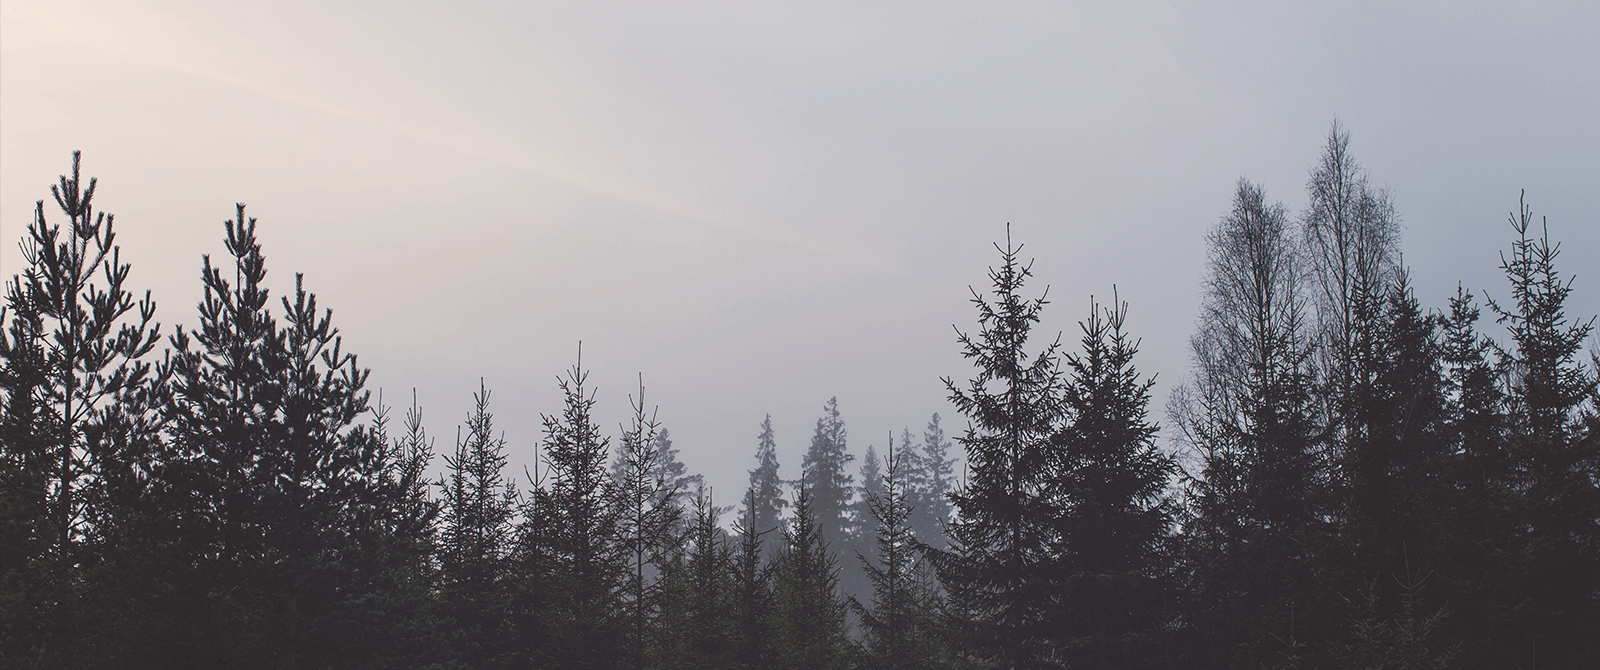
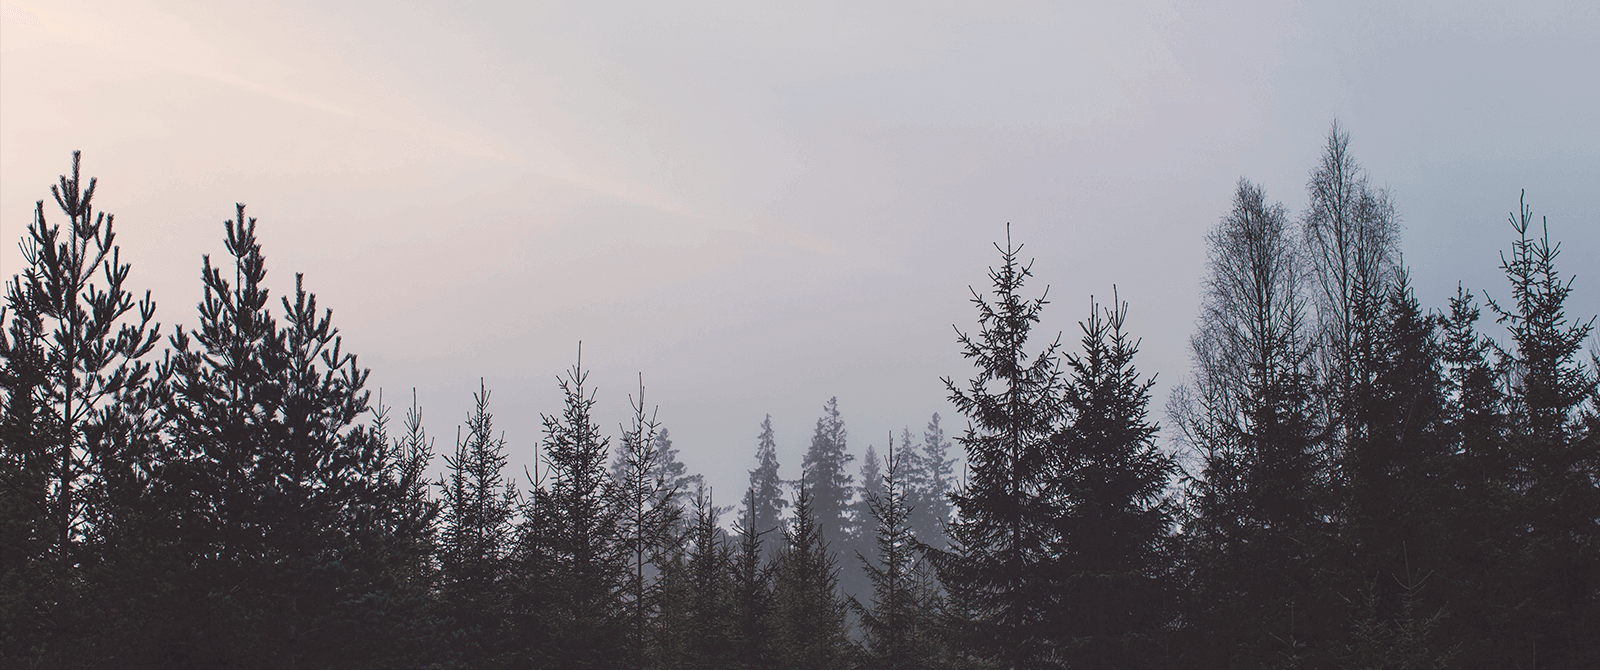
adaptive images (backgrounds). adaptive for 1750-1900px.

diff --git a/index.html b/index.html
@@ -1,1 +1,1 @@
[2 lines of base64/hex data omitted]

diff --git a/main.910e1c8e3a20116ae655.css b/main.910e1c8e3a20116ae655.css
@@ -1,0 +1,1 @@
+/*! normalize.css v8.0.1 | MIT License | github.com/necolas/normalize.css */html{line-height:1.15;-webkit-text-size-adjust:100%}body{margin:0}main{display:block}h1{font-size:2em;margin:.67em 0}hr{-webkit-box-sizing:content-box;box-sizing:content-box;height:0;overflow:visible}pre{font-family:monospace,monospace;font-size:1em}a{background-color:rgba(0,0,0,0)}abbr[title]{border-bottom:none;text-decoration:underline;-webkit-text-decoration:underline dotted;text-decoration:underline dotted}b,strong{font-weight:bolder}code,kbd,samp{font-family:monospace,monospace;font-size:1em}small{font-size:80%}sub,sup{font-size:75%;line-height:0;position:relative;vertical-align:baseline}sub{bottom:-.25em}sup{top:-.5em}img{border-style:none}button,input,optgroup,select,textarea{font-family:inherit;font-size:100%;line-height:1.15;margin:0}button,input{overflow:visible}button,select{text-transform:none}[type=button],[type=reset],[type=submit],button{-webkit-appearance:button}[type=button]::-moz-focus-inner,[type=reset]::-moz-focus-inner,[type=submit]::-moz-focus-inner,button::-moz-focus-inner{border-style:none;padding:0}[type=button]:-moz-focusring,[type=reset]:-moz-focusring,[type=submit]:-moz-focusring,button:-moz-focusring{outline:1px dotted ButtonText}fieldset{padding:.35em .75em .625em}legend{-webkit-box-sizing:border-box;box-sizing:border-box;color:inherit;display:table;max-width:100%;padding:0;white-space:normal}progress{vertical-align:baseline}textarea{overflow:auto}[type=checkbox],[type=radio]{-webkit-box-sizing:border-box;box-sizing:border-box;padding:0}[type=number]::-webkit-inner-spin-button,[type=number]::-webkit-outer-spin-button{height:auto}[type=search]{-webkit-appearance:textfield;outline-offset:-2px}[type=search]::-webkit-search-decoration{-webkit-appearance:none}::-webkit-file-upload-button{-webkit-appearance:button;font:inherit}details{display:block}summary{display:list-item}[hidden],template{display:none}html{font-size:14px;font-family:Roboto,sans-serif;font-weight:400}*{-webkit-box-sizing:border-box;box-sizing:border-box}a{text-decoration:none}h1,h2,h3,p{margin:0}textarea{padding:0}input,textarea{outline:none}button,input,textarea{border:none;background:rgba(0,0,0,0)}button{text-decoration:none}ul{list-style-type:none;padding:0;margin:0}body{overflow-x:hidden}html{scroll-behavior:smooth}._hidden-overflow{overflow:hidden}.container{margin:0 auto;max-width:980px;padding:70px 20px}@media (min-width:1750px){.container_will-expand{max-width:1240px}}.logo{display:-webkit-box;display:-ms-flexbox;display:flex;-webkit-box-align:center;-ms-flex-align:center;align-items:center;z-index:1}.logo img{margin-right:12px}.logo span{font-family:Roboto,sans-serif;font-weight:100;font-size:30px;color:#22bac6;text-align:center}.bg-overlay{z-index:0;position:absolute;width:100%;height:100%;top:0;left:0;background-image:-webkit-gradient(linear,left bottom,left top,from(#09052f),to(#311d5e));background-image:-o-linear-gradient(bottom,#09052f 0,#311d5e 100%);background-image:linear-gradient(0deg,#09052f,#311d5e);opacity:.851}.button{display:-webkit-box;display:-ms-flexbox;display:flex;-webkit-box-pack:center;-ms-flex-pack:center;justify-content:center;-webkit-box-align:center;-ms-flex-align:center;align-items:center;width:120px;height:40px;font-family:Hammersmith One,sans-serif;font-size:16px;color:#00e0d0;border:1px solid #00e0d0;border-radius:2px;position:relative;-webkit-transition:.2s;-o-transition:.2s;transition:.2s;overflow:hidden;z-index:1;text-transform:uppercase}.button_big{width:140px}.button:after{content:"";display:block;position:absolute;width:200%;height:130%;background-color:#00e0d0;-webkit-transition:.25s;-o-transition:.25s;transition:.25s;z-index:-1;-webkit-transform:skew(110deg);-ms-transform:skew(110deg);transform:skew(110deg);left:-250%;top:-5px;opacity:0;visibility:hidden}.button:hover{color:#09052f}.button_light:hover{color:rgba(17,10,85,.85)}.button:hover:after{visibility:visible;left:-50%;opacity:1}.button:active{border:1px solid #00a094}.button:active:after{background-color:#00a094}.title{font-family:Playfair Display,serif;font-weight:600;font-size:22px;color:#413d4b;line-height:1.2}@media (min-width:1750px){.title{font-size:24px}}.description-text{font-family:Roboto,sans-serif;font-weight:300;font-size:14px;color:rgba(65,61,75,.749);line-height:1.571}@media (min-width:1750px){.description-text{font-size:16px}}.section-head__title{text-align:center;margin-bottom:14px;text-transform:uppercase;position:relative;z-index:1}.section-head__subtitle{font-family:Playfair Display,serif;font-weight:400;text-align:center;font-size:14px;color:rgba(47,45,53,.749);line-height:1.4;padding-bottom:18px;position:relative}@media (min-width:1750px){.section-head__subtitle{font-size:16px}}.section-head__subtitle:after{content:"";display:block;width:50px;height:2px;background-color:#c6c4c9;position:absolute;bottom:0;left:50%;-webkit-transform:translateX(-50%);-ms-transform:translateX(-50%);transform:translateX(-50%)}.section-head_white .section-head__subtitle,.section-head_white .section-head__title{color:#fff}.section-head_white .section-head__subtitle:after{background-color:#fff;opacity:.2}.modal{position:fixed;z-index:2;top:0;left:0;width:100%;height:100%;background-color:rgba(0,0,0,.6);-webkit-transition:.3s;-o-transition:.3s;transition:.3s;opacity:0}.modal_active{opacity:1}.modal__container,.modal_active .modal__content{width:100%;height:100%}.modal__container{display:-webkit-box;display:-ms-flexbox;display:flex;-webkit-box-pack:center;-ms-flex-pack:center;justify-content:center;-webkit-box-align:center;-ms-flex-align:center;align-items:center}.modal__slider-container{height:80%;width:85%}@media (max-width:992px){.modal__slider-container{width:95%;height:100%}}.modal__content,.modal__slide{display:-webkit-box;display:-ms-flexbox;display:flex;-webkit-box-pack:center;-ms-flex-pack:center;justify-content:center;-webkit-box-align:center;-ms-flex-align:center;align-items:center}.modal__content{width:0;height:0;-webkit-transition:.4s;-o-transition:.4s;transition:.4s}.modal__image{max-width:100%;height:100%;-o-object-fit:contain;object-fit:contain}.modal__button-next,.modal__button-prev{position:fixed;top:50%;z-index:3}@media (max-width:992px){.modal__button-next,.modal__button-prev{display:none}}.modal__button-prev{left:30px}.modal__button-next{right:30px}.modal__pagination{display:none;color:hsla(0,0%,100%,.8);bottom:2%}@media (max-width:992px){.modal__pagination{display:block}}.modal__close{position:fixed;top:0;right:0;width:60px;height:60px;opacity:.3;cursor:pointer;-webkit-transition:opacity .2s;-o-transition:opacity .2s;transition:opacity .2s;z-index:3}.modal__close:hover{opacity:1}.modal__close:after,.modal__close:before{position:absolute;left:50%;top:23%;content:" ";height:34px;width:3px;background-color:#fff}.modal__close:before{-webkit-transform:rotate(45deg);-ms-transform:rotate(45deg);transform:rotate(45deg)}.modal__close:after{-webkit-transform:rotate(-45deg);-ms-transform:rotate(-45deg);transform:rotate(-45deg)}._hide{visibility:hidden}@-webkit-keyframes scaleIncrease{0%{-webkit-transform:scale(.8);transform:scale(.8)}to{-webkit-transform:scale(1);transform:scale(1)}}@keyframes scaleIncrease{0%{-webkit-transform:scale(.8);transform:scale(.8)}to{-webkit-transform:scale(1);transform:scale(1)}}@-webkit-keyframes scaleDecrease{0%{-webkit-transform:scale(1.2);transform:scale(1.2)}to{-webkit-transform:scale(1);transform:scale(1)}}@keyframes scaleDecrease{0%{-webkit-transform:scale(1.2);transform:scale(1.2)}to{-webkit-transform:scale(1);transform:scale(1)}}@-webkit-keyframes fadeIn{0%{opacity:0}to{opacity:1}}@keyframes fadeIn{0%{opacity:0}to{opacity:1}}@-webkit-keyframes leftToRight{0%{-webkit-transform:translateX(-100px);transform:translateX(-100px)}to{-webkit-transform:translateX(0);transform:translateX(0)}}@keyframes leftToRight{0%{-webkit-transform:translateX(-100px);transform:translateX(-100px)}to{-webkit-transform:translateX(0);transform:translateX(0)}}@-webkit-keyframes rightToLeft{0%{-webkit-transform:translateX(100px);transform:translateX(100px)}to{-webkit-transform:translateX(0);transform:translateX(0)}}@keyframes rightToLeft{0%{-webkit-transform:translateX(100px);transform:translateX(100px)}to{-webkit-transform:translateX(0);transform:translateX(0)}}@-webkit-keyframes topToBottom{0%{-webkit-transform:translateY(-50px);transform:translateY(-50px)}to{-webkit-transform:translateY(0);transform:translateY(0)}}@keyframes topToBottom{0%{-webkit-transform:translateY(-50px);transform:translateY(-50px)}to{-webkit-transform:translateY(0);transform:translateY(0)}}@-webkit-keyframes bottomToTop{0%{-webkit-transform:translateY(50px);transform:translateY(50px)}to{-webkit-transform:translateY(0);transform:translateY(0)}}@keyframes bottomToTop{0%{-webkit-transform:translateY(50px);transform:translateY(50px)}to{-webkit-transform:translateY(0);transform:translateY(0)}}.header{position:relative;background-position:50%;background-size:cover;background-image:url(images/bg/header-bg.png)}@media (max-width:992px){.header{background-image:url(images/bg/header-bg-992.png)}}@media (max-width:768px){.header{background-image:url(images/bg/header-bg-768.jpg)}}@media (max-width:500px){.header{background-image:url(images/bg/header-bg-500.jpg)}}.header__container{padding-top:15px;padding-bottom:0}@media (max-width:1366px){.header__container{max-width:1176px}}.header__top{-webkit-box-pack:justify;-ms-flex-pack:justify;justify-content:space-between}.header__content,.header__top{display:-webkit-box;display:-ms-flexbox;display:flex;-webkit-box-align:center;-ms-flex-align:center;align-items:center}.header__content{padding:163px 0 70px;-webkit-box-pack:center;-ms-flex-pack:center;justify-content:center}@media (max-width:1366px){.header__content{padding-top:122.25px}}@media (max-width:768px){.header__content{padding-top:73.35px;padding-bottom:45px}}.header__slider{max-width:780px;width:100%;z-index:0}.menu{display:-webkit-box;display:-ms-flexbox;display:flex}@media (max-width:768px){.menu{position:fixed;top:-100%;left:0;width:100%;height:100%;background-color:#362b59;display:-webkit-box;display:-ms-flexbox;display:flex;visibility:hidden;-webkit-transition:.2s;-o-transition:.2s;transition:.2s;-webkit-box-orient:vertical;-webkit-box-direction:normal;-ms-flex-flow:column;flex-flow:column;-webkit-box-align:center;-ms-flex-align:center;align-items:center;-webkit-box-pack:center;-ms-flex-pack:center;justify-content:center;z-index:1;overflow:auto}.menu_active{visibility:visible;top:0}}.menu__link{font-family:Roboto,sans-serif;font-weight:900;font-size:13px;margin-right:25px;position:relative}@media (min-width:1750px){.menu__link{font-size:15px}}.menu__link:after{content:"";display:block;position:absolute;height:2px;background-color:#00e0d0;width:0;bottom:-3px;left:50%;-webkit-transition:.2s ease-in-out;-o-transition:.2s ease-in-out;transition:.2s ease-in-out}.menu__link:hover:after{width:100%;left:0}@media (max-width:768px){.menu__link{margin:0 0 25px;font-size:30px}.menu__link:last-child{margin:0}.menu__link:after{-webkit-transition:none;-o-transition:none;transition:none}}@media (max-height:450px){.menu__link{font-size:20px}}@media (max-height:351px){.menu__link{margin-bottom:15px}}.menu__link:last-child{margin-right:0}.menu__link a{color:#fff}.menu__link_active a{color:#00e0d0}.menu__link_active:after{display:none}.burger{position:relative;cursor:pointer}@media (max-width:768px){.burger{width:40px;height:25px;display:block;position:relative;z-index:2}.burger:after,.burger:before{content:"";display:block;width:100%;background-color:#00e0d0;height:3px;position:absolute;left:0;-webkit-transition:.3s;-o-transition:.3s;transition:.3s}.burger:before{top:0}.burger:after{top:22px}.burger span{content:"";display:block;width:100%;background-color:#00e0d0;height:3px;position:absolute;left:0;top:50%;-webkit-transform:translateY(-50%);-ms-transform:translateY(-50%);transform:translateY(-50%);-webkit-transition:.3s;-o-transition:.3s;transition:.3s}}.burger_active:after,.burger_active:before{background-color:#fff;top:50%;-webkit-transform:translateY(-50%);-ms-transform:translateY(-50%);transform:translateY(-50%)}.burger_active:after{-webkit-transform:rotate(135deg);-ms-transform:rotate(135deg);transform:rotate(135deg)}.burger_active:before{-webkit-transform:rotate(-135deg);-ms-transform:rotate(-135deg);transform:rotate(-135deg)}.burger_active span{opacity:0;background-color:#fff;-webkit-transform:rotate(180deg);-ms-transform:rotate(180deg);transform:rotate(180deg)}.header-slider .swiper-pagination-bullet{border:1px solid #c2c2c2;border-radius:50%;width:9px;height:9px;-webkit-transition:.2s;-o-transition:.2s;transition:.2s}.header-slider .swiper-pagination-bullet-active{background-color:#00e0d0;border-color:#00e0d0}.header-slide-content{display:-webkit-box;display:-ms-flexbox;display:flex;-webkit-box-align:center;-ms-flex-align:center;align-items:center;-webkit-box-orient:vertical;-webkit-box-direction:normal;-ms-flex-flow:column;flex-flow:column;text-align:center;min-height:250px;margin-bottom:127px}@media (max-width:900px){.header-slide-content{margin-bottom:101.6px}}@media (max-width:768px){.header-slide-content{margin-bottom:63.5px}}.header-slide-content__title{font-family:Playfair Display,serif;font-weight:900;font-size:32px;color:#fff;line-height:1.2;padding-bottom:28px;margin-bottom:24px;position:relative}@media (max-width:768px){.header-slide-content__title{font-size:30px}}.header-slide-content__title:after{content:"";display:block;width:50px;height:1px;background-color:#00e0d0;position:absolute;bottom:0;left:50%;-webkit-transform:translateX(-50%);-ms-transform:translateX(-50%);transform:translateX(-50%)}.header-slide-content__description{font-family:Roboto,sans-serif;font-weight:300;font-size:14px;color:#fff;line-height:1.714;-webkit-box-flex:1;-ms-flex:1 1 auto;flex:1 1 auto}@media (min-width:1750px){.header-slide-content__description{font-size:16px}}.header-slide-content__button{margin-top:20px}@media (max-width:680px){.about__container{padding-top:20px;padding-bottom:40px}}.about__content{display:-webkit-box;display:-ms-flexbox;display:flex}@media (max-width:680px){.about__content{-webkit-box-orient:vertical;-webkit-box-direction:normal;-ms-flex-flow:column;flex-flow:column;-webkit-box-align:center;-ms-flex-align:center;align-items:center}}.about__picture{background-repeat:no-repeat;background-position:top;-ms-flex-preferred-size:42.5%;flex-basis:42.5%}@media (min-width:1750px){.about__picture{background-position:50%}}@media (max-width:1024px){.about__picture{background-position:20px}}@media (max-width:768px){.about__picture{background-position:0}}@media (max-width:680px){.about__picture{background-size:contain;-ms-flex-preferred-size:auto;flex-basis:auto;width:70px;height:70px;margin-bottom:35px}}.about__article{-ms-flex-preferred-size:57.5%;flex-basis:57.5%}.about__title{margin-bottom:25px}@media (max-width:680px){.about__title{text-align:center}}.about__description-text{margin-bottom:27px}.about__description-text p{margin-bottom:26px}.about__description-text p:last-child{margin:0}.video{width:100%;position:relative;padding:42.55% 0 0}.video__player{border-width:0}.preview-video,.video__player{position:absolute;top:0;left:0;width:100%;height:100%}.preview-video{background-position:50%;background-size:cover;display:-webkit-box;display:-ms-flexbox;display:flex;-webkit-box-pack:center;-ms-flex-pack:center;justify-content:center;-webkit-box-align:center;-ms-flex-align:center;align-items:center;-webkit-box-orient:vertical;-webkit-box-direction:normal;-ms-flex-flow:column;flex-flow:column;cursor:pointer;-webkit-transition:1s;-o-transition:1s;transition:1s;background-image:url(images/bg/video-bg.png)}@media (max-width:992px){.preview-video{background-image:url(images/bg/video-bg-992.jpg)}}@media (max-width:768px){.preview-video{background-image:url(images/bg/video-bg-768.jpg)}}@media (max-width:500px){.preview-video{background-image:url(images/bg/video-bg-500.jpg)}}.preview-video__overlay{width:100%;height:100%;background-image:-webkit-gradient(linear,left bottom,left top,from(#09052f),to(#311d5e));background-image:-o-linear-gradient(bottom,#09052f 0,#311d5e 100%);background-image:linear-gradient(0deg,#09052f,#311d5e);opacity:.891;position:absolute;-webkit-transition:1s;-o-transition:1s;transition:1s}.preview-video__text{font-family:Roboto,sans-serif;font-weight:900;font-size:16px;color:#fff;z-index:1;margin-top:10px;opacity:0;-webkit-transition:.6s;-o-transition:.6s;transition:.6s}@media (max-width:680px){.preview-video__text{opacity:1;margin-top:20px;font-size:14px;margin-top:10px}}@media (min-width:681px){.preview-video:hover .preview-video__overlay{opacity:.8}.preview-video:hover .preview-video__play-button{-webkit-transform:scale(1.05);-ms-transform:scale(1.05);transform:scale(1.05)}.preview-video:hover .preview-video__text{margin-top:28px;opacity:1}}.preview-video_fading{opacity:0}.preview-video_fading .play-button{-webkit-transition:.4s;-o-transition:.4s;transition:.4s;margin-bottom:20px;-webkit-transform:scale(1.4);-ms-transform:scale(1.4);transform:scale(1.4)}@media (max-width:680px){.preview-video_fading .play-button{-webkit-transform:scale(1.1);-ms-transform:scale(1.1);transform:scale(1.1)}}.preview-video_fading .preview-video__text{-webkit-transition:.4s;-o-transition:.4s;transition:.4s;opacity:0}.play-button{z-index:1;-webkit-transition:.2s;-o-transition:.2s;transition:.2s}.play-button__circle{border:3px solid #fff;border-radius:50%;width:94px;height:94px;display:-webkit-box;display:-ms-flexbox;display:flex;-webkit-box-pack:center;-ms-flex-pack:center;justify-content:center;-webkit-box-align:center;-ms-flex-align:center;align-items:center}@media (max-width:680px){.play-button__circle{width:75.2px;height:75.2px}}@media (max-width:500px){.play-button__circle{width:56.4px;height:56.4px;border-width:2px}}.play-button__triangle{position:relative;left:5px;-webkit-transition:.2s;-o-transition:.2s;transition:.2s}.play-button__triangle_active{-webkit-transform:scale(.9);-ms-transform:scale(.9);transform:scale(.9)}@media (max-width:680px){.play-button__triangle{width:29.6px;height:36px}}@media (max-width:500px){.play-button__triangle{width:22.2px;height:27px;left:4px}}.expertise__container{padding-bottom:50px}@media (max-width:850px){.expertise__container{padding-top:35px;padding-bottom:10px}}.expertise__content{padding-top:40px}@media (max-width:850px){.expertise__content{display:-webkit-box;display:-ms-flexbox;display:flex;-webkit-box-pack:center;-ms-flex-pack:center;justify-content:center}}@media (max-width:540px){.expertise__content{-webkit-box-orient:vertical;-webkit-box-direction:normal;-ms-flex-flow:column;flex-flow:column}}.expertise__row{display:-webkit-box;display:-ms-flexbox;display:flex;-webkit-box-pack:justify;-ms-flex-pack:justify;justify-content:space-between}.expertise__row:first-child{border-bottom:1px solid #ebebeb}@media (max-width:850px){.expertise__row:first-child{border:none;margin-right:50px}}@media (max-width:540px){.expertise__row:first-child{margin:0}}@media (max-width:850px){.expertise__row{-webkit-box-orient:vertical;-webkit-box-direction:normal;-ms-flex-flow:column;flex-flow:column;-webkit-box-pack:start;-ms-flex-pack:start;justify-content:flex-start}}.expertise__col{-webkit-box-flex:0;-ms-flex:0 1 300px;flex:0 1 300px;display:-webkit-box;display:-ms-flexbox;display:flex;-webkit-box-pack:center;-ms-flex-pack:center;justify-content:center;padding:40px 0}@media (max-width:540px){.expertise__col{padding:20px 0;-webkit-box-flex:0;-ms-flex:0 1 auto;flex:0 1 auto}}.item-expertise{-webkit-box-orient:vertical;-webkit-box-direction:normal;-ms-flex-flow:column;flex-flow:column;-webkit-box-align:center;-ms-flex-align:center;align-items:center;text-align:center;max-width:255px}.item-expertise,.item-expertise__picture{display:-webkit-box;display:-ms-flexbox;display:flex}.item-expertise__picture{width:50px;height:50px;-webkit-box-pack:center;-ms-flex-pack:center;justify-content:center;-webkit-box-align:end;-ms-flex-align:end;align-items:flex-end}.item-expertise__title{font-family:Roboto,sans-serif;font-weight:900;font-size:14px;color:#413d4b;line-height:1.2;margin-bottom:20px;margin-top:33px}@media (min-width:1750px){.item-expertise__title{font-size:16px}}.team{position:relative;background-position:50%;background-size:cover;background-image:url(images/bg/team-bg.png)}@media (max-width:990px){.team{background-image:url(images/bg/team-bg-990.jpg)}}@media (max-width:500px){.team{background-image:url(images/bg/team-bg-500.jpg)}}.team__container{padding-bottom:60px}@media (max-width:990px){.team__container{padding-bottom:35px;padding-top:35px}}.team__section-head{margin-bottom:47px}.team__row{display:-webkit-box;display:-ms-flexbox;display:flex;-webkit-box-pack:justify;-ms-flex-pack:justify;justify-content:space-between;margin-bottom:70px;position:relative;z-index:1}@media (max-width:990px){.team__row{-ms-flex-wrap:wrap;flex-wrap:wrap;margin-bottom:45px}}.team__col{-webkit-box-flex:0;-ms-flex:0 1 220px;flex:0 1 220px}@media (max-width:990px){.team__col{-webkit-box-flex:0;-ms-flex:0 1 45%;flex:0 1 45%;display:-webkit-box;display:-ms-flexbox;display:flex;margin-bottom:25px}.team__col:nth-child(odd){-webkit-box-pack:end;-ms-flex-pack:end;justify-content:flex-end}}@media (max-width:500px){.team__col{-webkit-box-flex:0;-ms-flex:0 1 100%;flex:0 1 100%;-webkit-box-pack:center;-ms-flex-pack:center;justify-content:center}.team__col:nth-child(odd){-webkit-box-pack:center;-ms-flex-pack:center;justify-content:center}}.team__member{z-index:1}.team__footer{display:-webkit-box;display:-ms-flexbox;display:flex;-webkit-box-align:center;-ms-flex-align:center;align-items:center;-webkit-box-orient:vertical;-webkit-box-direction:normal;-ms-flex-flow:column;flex-flow:column}.team__announcement{font-family:Roboto,sans-serif;font-weight:300;font-size:14px;color:#f3f3f3;line-height:1.2;margin-bottom:25px;z-index:1}@media (min-width:1750px){.team__announcement{font-size:16px}}.team-member{max-width:220px}.team-member__photo{width:100%;max-height:230px}.team-member__photo img{width:100%}.team-member__about{border:1px solid hsla(0,0%,100%,.4);border-top:none;padding:22px 0 24px;text-align:center}.team-member__name{font-family:Roboto,sans-serif;font-weight:900;font-size:14px;color:#fff;margin-bottom:6px}@media (min-width:1750px){.team-member__name{font-size:16px}}.team-member__position{font-family:Roboto,sans-serif;font-weight:300;font-size:13px;color:hsla(0,0%,98%,.702)}@media (min-width:1750px){.team-member__position{background-position:15px}}@media (max-width:992px){.works__container{padding:40px 20px}}.works__head{display:-webkit-box;display:-ms-flexbox;display:flex;-webkit-box-pack:justify;-ms-flex-pack:justify;justify-content:space-between;-webkit-box-align:center;-ms-flex-align:center;align-items:center}@media (max-width:640px){.works__head{-webkit-box-orient:vertical;-webkit-box-direction:normal;-ms-flex-flow:column;flex-flow:column}}@media (max-width:640px){.works__title{margin-bottom:30px}}.works__link{font-family:Roboto,sans-serif;font-weight:300;font-size:14px;color:#413d4b;line-height:1.2;position:relative;padding-right:18px}@media (min-width:1750px){.works__link{font-size:16px}}.works__link:after{content:"";display:block;width:9px;height:9px;border-right:1px solid #413d4b;border-bottom:1px solid #413d4b;position:absolute;right:0;top:50%;-webkit-transform:translateY(-50%) rotate(-45deg);-ms-transform:translateY(-50%) rotate(-45deg);transform:translateY(-50%) rotate(-45deg);-webkit-transition:.3s;-o-transition:.3s;transition:.3s}.works__link:after{-webkit-animation:left-to-right .6s infinite alternate;animation:left-to-right .6s infinite alternate}@-webkit-keyframes left-to-right{0%{right:0}to{right:-4px}}@keyframes left-to-right{0%{right:0}to{right:-4px}}.gallery__wrapper{display:-webkit-box;display:-ms-flexbox;display:flex;-ms-flex-wrap:wrap;flex-wrap:wrap;-webkit-box-pack:stretch;-ms-flex-pack:stretch;justify-content:stretch}.gallery__item{-webkit-box-flex:0;-ms-flex:0 1 16.6666%;flex:0 1 16.6666%;height:0;position:relative;overflow:hidden;cursor:pointer;display:none;opacity:0;-webkit-transform:scale(.1);-ms-transform:scale(.1);transform:scale(.1);-webkit-transition:.4s;-o-transition:.4s;transition:.4s}.gallery__item_shown{display:block}.gallery__item_transitioning{height:200px;opacity:1;-webkit-transform:scale(1);-ms-transform:scale(1);transform:scale(1)}@media (max-width:1080px){.gallery__item{-webkit-box-flex:0;-ms-flex:0 1 33.333%;flex:0 1 33.333%}}@media (max-width:640px){.gallery__item{-webkit-box-flex:0;-ms-flex:0 1 50%;flex:0 1 50%}}@media (max-width:450px){.gallery__item{-webkit-box-flex:0;-ms-flex:0 1 100%;flex:0 1 100%}}.gallery__item:hover img{-webkit-transform:scale(1.1);-ms-transform:scale(1.1);transform:scale(1.1)}.gallery__item img{width:100%;height:100%;-o-object-fit:cover;object-fit:cover;position:absolute;top:0;left:0;-webkit-transition:.3s;-o-transition:.3s;transition:.3s}.gallery__button-wrapper{margin:70px auto;display:-webkit-box;display:-ms-flexbox;display:flex;-webkit-box-pack:center;-ms-flex-pack:center;justify-content:center;-webkit-transition:.6s;-o-transition:.6s;transition:.6s}@media (max-width:992px){.gallery__button-wrapper{margin:45px auto}}.gallery__button-wrapper_narrow{margin:35px auto}.gallery__button{-webkit-transition:opacity,height .4s;-o-transition:opacity,height .4s;transition:opacity,height .4s}.gallery__button_fading{opacity:0;height:0}.quotes{background-size:cover;position:relative;background-image:url(images/bg/quotes-bg.png)}@media (max-width:992px){.quotes{background-image:url(images/bg/quotes-bg-992.jpg)}}@media (max-width:500px){.quotes{background-image:url(images/bg/quotes-bg-500.jpg)}}.quotes__container{padding-right:90px;padding-left:90px}@media (max-width:992px){.quotes__container{padding-top:40px;padding-bottom:40px}}@media (max-width:676px){.quotes__container{padding-right:20px;padding-left:20px}}.quotes__pagination-slider{margin:45px auto 0}@media (max-width:676px){.quotes__pagination-slider{margin-top:35px}}.quotes-slide-content{display:-webkit-box;display:-ms-flexbox;display:flex;-webkit-box-orient:vertical;-webkit-box-direction:normal;-ms-flex-flow:column;flex-flow:column;-webkit-box-align:center;-ms-flex-align:center;align-items:center;text-align:center;position:relative;min-height:250px}.quotes-slide-content__quotes-char{font-family:Playfair Display,serif;font-weight:400;font-size:100px;color:hsla(0,0%,100%,.902);position:absolute;top:-27px;left:50%;-webkit-transform:translateX(-50%);-ms-transform:translateX(-50%);transform:translateX(-50%)}.quotes-slide-content__quote{font-family:Playfair Display,serif;font-weight:400;font-size:16px;color:hsla(0,0%,100%,.851);line-height:1.625;margin-top:60px;-webkit-box-flex:1;-ms-flex:1 1 auto;flex:1 1 auto}.quotes-slide-content__footer{display:-webkit-box;display:-ms-flexbox;display:flex;-webkit-box-orient:vertical;-webkit-box-direction:normal;-ms-flex-flow:column;flex-flow:column;-webkit-box-align:center;-ms-flex-align:center;align-items:center;margin-top:10px}.quotes-slide-content__name{font-family:Roboto,sans-serif;font-weight:900;font-size:14px;color:#fff;line-height:1.571;text-transform:uppercase}@media (min-width:1750px){.quotes-slide-content__name{font-size:16px}}.quotes-slide-content__position{font-family:Roboto,sans-serif;font-weight:300;font-size:13px;color:hsla(0,0%,100%,.702);line-height:1.692}@media (min-width:1750px){.quotes-slide-content__position{font-size:15px}}.pagination-slider{width:320px;position:relative}@media (max-width:499px){.pagination-slider{width:200px}}.pagination-slider__slide{display:-webkit-box;display:-ms-flexbox;display:flex;-webkit-box-pack:center;-ms-flex-pack:center;justify-content:center;-webkit-box-align:center;-ms-flex-align:center;align-items:center;margin:auto;cursor:pointer}.pagination-slider__portrait{width:40px;height:40px;border-radius:50%;background-position:50%;background-repeat:no-repeat;background-size:cover;-webkit-transition:-webkit-transform .3s;transition:-webkit-transform .3s;-o-transition:transform .3s;transition:transform .3s;transition:transform .3s,-webkit-transform .3s}.pagination-slider__button-next,.pagination-slider__button-prev{position:absolute;width:40px;height:40px;top:50%;-webkit-transform:translateY(-50%);-ms-transform:translateY(-50%);transform:translateY(-50%);cursor:pointer;outline:none}.pagination-slider__button-next:after,.pagination-slider__button-prev:after{content:"";display:block;width:15px;height:15px;border:2px solid #9f9f9f;position:absolute;top:50%;left:50%;-webkit-transform:translate(-50%,-50%) rotate(45deg);-ms-transform:translate(-50%,-50%) rotate(45deg);transform:translate(-50%,-50%) rotate(45deg)}.pagination-slider__button-prev{left:-45px}.pagination-slider__button-prev:after{border-top:none;border-right:none}.pagination-slider__button-next{right:-45px}.pagination-slider__button-next:after{border-bottom:none;border-left:none}.pagination-slider .swiper-slide-active{width:70px;height:70px}.pagination-slider .swiper-slide-active .pagination-slider__portrait{-webkit-transform:scale(1.75);-ms-transform:scale(1.75);transform:scale(1.75)}.contact__container{display:-webkit-box;display:-ms-flexbox;display:flex;-webkit-box-pack:justify;-ms-flex-pack:justify;justify-content:space-between}@media (max-width:992px){.contact__container{padding-top:45px;padding-bottom:45px}}@media (max-width:715px){.contact__container{-webkit-box-orient:vertical;-webkit-box-direction:normal;-ms-flex-flow:column;flex-flow:column;-webkit-box-align:center;-ms-flex-align:center;align-items:center;padding-bottom:15px}}.contact__form-wrapper{-webkit-box-flex:0;-ms-flex:0 1 460px;flex:0 1 460px;margin-right:30px}@media (max-width:715px){.contact__form-wrapper{width:100%;text-align:center;margin-right:0;margin-bottom:50px}}.contact__title{margin-bottom:33px}.form-contact{display:-webkit-box;display:-ms-flexbox;display:flex;-webkit-box-orient:vertical;-webkit-box-direction:normal;-ms-flex-flow:column;flex-flow:column}@media (max-width:715px){.form-contact{-webkit-box-align:center;-ms-flex-align:center;align-items:center}}.form-contact input:not([type=submit]),.form-contact textarea{max-width:460px;border:1px solid #e5e5e5;padding-left:20px;padding-right:20px;font-family:Roboto,sans-serif;font-weight:400;font-size:16px;-webkit-transition:border-color .3s;-o-transition:border-color .3s;transition:border-color .3s}.form-contact input:not([type=submit])::-webkit-input-placeholder,.form-contact textarea::-webkit-input-placeholder{font-family:Roboto,sans-serif;font-weight:300;font-size:14px;color:rgba(65,61,75,.502)}.form-contact input:not([type=submit])::-moz-placeholder,.form-contact textarea::-moz-placeholder{font-family:Roboto,sans-serif;font-weight:300;font-size:14px;color:rgba(65,61,75,.502)}.form-contact input:not([type=submit]):-ms-input-placeholder,.form-contact textarea:-ms-input-placeholder{font-family:Roboto,sans-serif;font-weight:300;font-size:14px;color:rgba(65,61,75,.502)}.form-contact input:not([type=submit])::-ms-input-placeholder,.form-contact textarea::-ms-input-placeholder{font-family:Roboto,sans-serif;font-weight:300;font-size:14px;color:rgba(65,61,75,.502)}.form-contact input:not([type=submit])::placeholder,.form-contact textarea::placeholder{font-family:Roboto,sans-serif;font-weight:300;font-size:14px;color:rgba(65,61,75,.502)}@media (min-width:1750px){.form-contact input:not([type=submit])::-webkit-input-placeholder,.form-contact textarea::-webkit-input-placeholder{font-size:16px}.form-contact input:not([type=submit])::-moz-placeholder,.form-contact textarea::-moz-placeholder{font-size:16px}.form-contact input:not([type=submit]):-ms-input-placeholder,.form-contact textarea:-ms-input-placeholder{font-size:16px}.form-contact input:not([type=submit])::-ms-input-placeholder,.form-contact textarea::-ms-input-placeholder{font-size:16px}.form-contact input:not([type=submit])::placeholder,.form-contact textarea::placeholder{font-size:16px}}.form-contact input:not([type=submit]):focus,.form-contact textarea:focus{border-color:#bebebe}@media (max-width:715px){.form-contact input:not([type=submit]),.form-contact textarea{width:100%}}.form-contact input:not([type=submit]){height:45px;margin-bottom:23px}.form-contact textarea{padding-top:21px;height:200px;resize:none;margin-bottom:21px}.clients-contact__title{margin-bottom:37px}@media (max-width:715px){.clients-contact__title{text-align:center;margin-bottom:43px}}.clients-contact__list{display:-webkit-box;display:-ms-flexbox;display:flex}@media (max-width:400px){.clients-contact__list{-webkit-box-orient:vertical;-webkit-box-direction:normal;-ms-flex-flow:column;flex-flow:column}}.clients-contact__col{margin-right:80px}.clients-contact__col:last-child{margin:0}@media (max-width:830px){.clients-contact__col{margin-right:20px}}@media (max-width:715px){.clients-contact__col{margin-right:90px}}@media (max-width:400px){.clients-contact__col{margin:0}}.clients-contact__item{margin-bottom:47px;display:-webkit-box;display:-ms-flexbox;display:flex;-webkit-box-pack:center;-ms-flex-pack:center;justify-content:center;-webkit-box-align:center;-ms-flex-align:center;align-items:center}.clients-contact__item img{max-width:100%}.footer{background-repeat:no-repeat;background-size:cover;background-position:50%;position:relative;background-image:url(images/bg/footer-bg.png)}@media (max-width:992px){.footer{background-image:url(images/bg/footer-bg-992.jpg)}}@media (max-width:630px){.footer{background-image:url(images/bg/footer-bg-630.jpg)}}.footer__container{position:relative;display:-webkit-box;display:-ms-flexbox;display:flex;-webkit-box-pack:justify;-ms-flex-pack:justify;justify-content:space-between}@media (max-width:780px){.footer__container{padding-top:55px;-ms-flex-wrap:wrap;flex-wrap:wrap}}@media (max-width:630px){.footer__container{-webkit-box-orient:vertical;-webkit-box-direction:normal;-ms-flex-flow:column;flex-flow:column;-webkit-box-align:center;-ms-flex-align:center;align-items:center}}.footer__col{margin-right:20px;position:relative;display:-webkit-box;display:-ms-flexbox;display:flex;-webkit-box-orient:vertical;-webkit-box-direction:normal;-ms-flex-flow:column;flex-flow:column}@media (max-width:780px){.footer__col{margin-right:0}}@media (max-width:630px){.footer__col{-webkit-box-align:center;-ms-flex-align:center;align-items:center;margin-bottom:30px}}.footer__col:first-child{-webkit-box-flex:0;-ms-flex:0 1 300px;flex:0 1 300px}@media (max-width:780px){.footer__col:first-child{-ms-flex-preferred-size:100%;flex-basis:100%;margin-bottom:30px;-webkit-box-align:center;-ms-flex-align:center;align-items:center}}.footer__col:nth-child(2){-webkit-box-flex:0;-ms-flex:0 1 310px;flex:0 1 310px}@media (max-width:780px){.footer__col:nth-child(2){-webkit-box-flex:0;-ms-flex:0 0 auto;flex:0 0 auto}}@media (max-width:630px){.footer__col:nth-child(2){width:300px;-webkit-box-align:start;-ms-flex-align:start;align-items:flex-start}}.footer__col:nth-child(3){-webkit-box-flex:0;-ms-flex:0 1 291px;flex:0 1 291px;margin-right:0}@media (max-width:780px){.footer__col:nth-child(3){-webkit-box-align:end;-ms-flex-align:end;align-items:flex-end}}@media (max-width:630px){.footer__col:nth-child(3){margin-bottom:0;-webkit-box-flex:0;-ms-flex:0;flex:0}}.footer__logo{position:absolute;top:-18px;z-index:1}@media (max-width:780px){.footer__logo{left:50%;-webkit-transform:translateX(-50%);-ms-transform:translateX(-50%);transform:translateX(-50%)}}.footer__description{font-family:Roboto,sans-serif;font-weight:300;font-size:14px;color:#fff;line-height:1.857;margin-bottom:80px;margin-top:42px}@media (min-width:1750px){.footer__description{font-size:16px}}@media (max-width:780px){.footer__description{margin-top:55px;margin-bottom:20px;text-align:center}}.footer__menu{display:-webkit-box;display:-ms-flexbox;display:flex;-webkit-box-pack:justify;-ms-flex-pack:justify;justify-content:space-between;-ms-flex-wrap:wrap;flex-wrap:wrap}@media (max-width:780px){.footer__menu{width:300px}}@media (max-width:630px){.footer__menu{-ms-flex-wrap:nowrap;flex-wrap:nowrap;width:90%}}@media (max-width:400px){.footer__menu{-webkit-box-orient:vertical;-webkit-box-direction:normal;-ms-flex-flow:column;flex-flow:column;-webkit-box-align:center;-ms-flex-align:center;align-items:center}}.footer__menu:last-child{margin-right:0}.footer__menu-link{margin-right:10px}@media (max-width:630px){.footer__menu-link{margin-right:30px}}@media (max-width:400px){.footer__menu-link{margin:0 0 10px}}.footer__menu-link:last-child{margin:0}.footer__menu-link a{font-family:Roboto,sans-serif;font-weight:400;font-size:14px;color:#fff;line-height:1.8;border-bottom:1px solid hsla(0,0%,100%,0);-webkit-transition:border-color .2s;-o-transition:border-color .2s;transition:border-color .2s}.footer__menu-link a:hover{border-color:#fff}@media (min-width:1750px){.footer__menu-link a{font-size:15px}}.footer__title{font-family:Roboto,sans-serif;font-weight:900;font-size:15px;color:#fff;margin-bottom:23px}@media (min-width:1750px){.footer__title{font-size:16px}}.footer__location,.footer__tel{font-family:Roboto,sans-serif;font-weight:300;font-size:14px;color:#fff;line-height:1.857;display:block;max-width:270px;padding-left:29px;background-repeat:no-repeat;background-position:left top 3px;margin-right:20px;-webkit-transition:opacity .3s;-o-transition:opacity .3s;transition:opacity .3s}@media (min-width:1750px){.footer__location,.footer__tel{font-size:16px}}.footer__location:hover,.footer__tel:hover{opacity:.8}.footer__location{margin-bottom:23px}.footer__subscribe-form{margin-bottom:27px}.footer__social{-webkit-box-flex:1;-ms-flex:1 1 auto;flex:1 1 auto;display:-webkit-box;display:-ms-flexbox;display:flex}@media (max-width:780px){.footer__social{margin-bottom:70px}}@media (max-width:630px){.footer__social{margin-bottom:30px;-webkit-box-flex:0;-ms-flex:0;flex:0}}.footer__soc-link{width:35px;height:35px;border-radius:50%;border:1px solid #fff;display:-webkit-box;display:-ms-flexbox;display:flex;-webkit-box-pack:center;-ms-flex-pack:center;justify-content:center;-webkit-box-align:center;-ms-flex-align:center;align-items:center;margin-right:8px;-webkit-transition:opacity .2s;-o-transition:opacity .2s;transition:opacity .2s}.footer__soc-link:hover{opacity:.7}.footer__rights{font-family:Roboto,sans-serif;font-weight:400;font-size:14px;color:#fff;text-align:right}.subscribe-form{display:-webkit-box;display:-ms-flexbox;display:flex}.subscribe-form__input{border:1px solid #fff;opacity:.502;height:44px;width:215px;padding-left:15px;font-family:Roboto,sans-serif;font-weight:300;font-size:14px;color:#fff;-webkit-transition:opacity .2s;-o-transition:opacity .2s;transition:opacity .2s;margin-right:10px}@media (min-width:1750px){.subscribe-form__input{font-size:16px}}.subscribe-form__input::-webkit-input-placeholder{font-family:Roboto,sans-serif;font-weight:300;font-size:14px;color:#fff}.subscribe-form__input::-moz-placeholder{font-family:Roboto,sans-serif;font-weight:300;font-size:14px;color:#fff}.subscribe-form__input:-ms-input-placeholder{font-family:Roboto,sans-serif;font-weight:300;font-size:14px;color:#fff}.subscribe-form__input::-ms-input-placeholder{font-family:Roboto,sans-serif;font-weight:300;font-size:14px;color:#fff}.subscribe-form__input::placeholder{font-family:Roboto,sans-serif;font-weight:300;font-size:14px;color:#fff}@media (min-width:1750px){.subscribe-form__input::-webkit-input-placeholder{font-size:16px}.subscribe-form__input::-moz-placeholder{font-size:16px}.subscribe-form__input:-ms-input-placeholder{font-size:16px}.subscribe-form__input::-ms-input-placeholder{font-size:16px}.subscribe-form__input::placeholder{font-size:16px}}.subscribe-form__input:focus{opacity:1}.subscribe-form__submit{background-color:hsla(0,0%,100%,.5);width:68px;height:43px;display:-webkit-box;display:-ms-flexbox;display:flex;-webkit-box-pack:center;-ms-flex-pack:center;justify-content:center;-webkit-box-align:center;-ms-flex-align:center;align-items:center;-webkit-transition:background-color .3s;-o-transition:background-color .3s;transition:background-color .3s}.subscribe-form__submit:hover{background-color:hsla(0,0%,100%,.7)}
